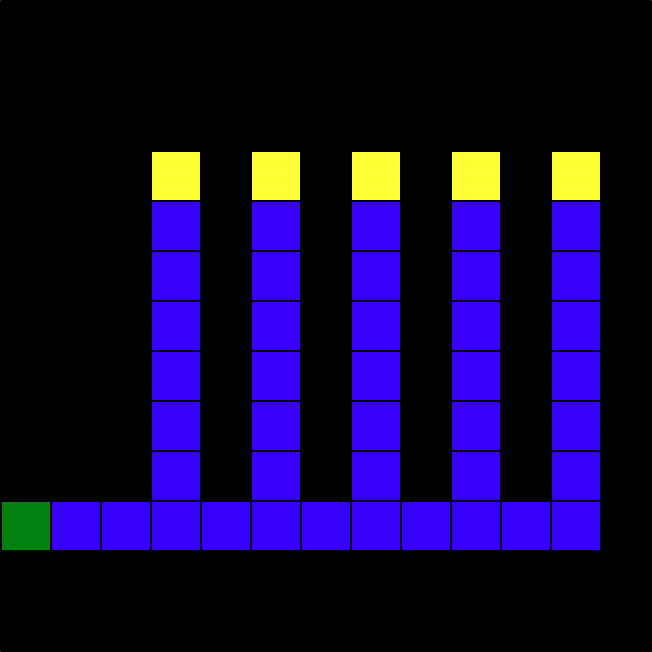
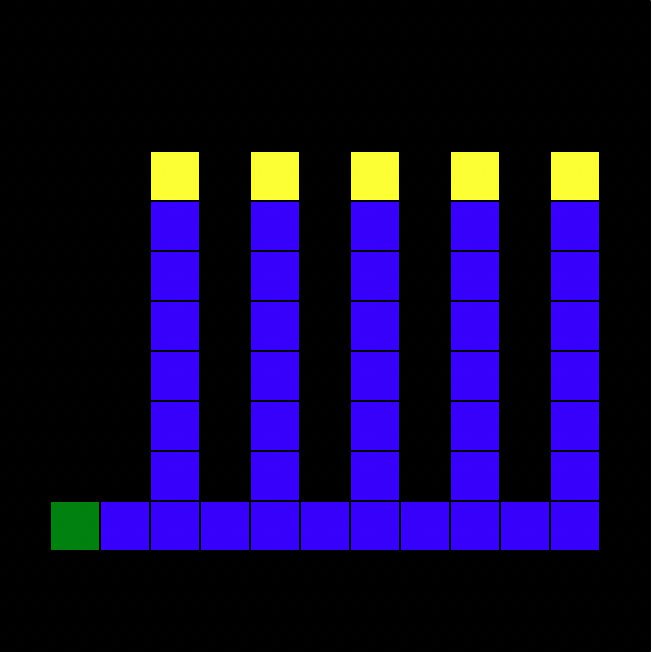
Simplified level 4 a bit

Changed region(s): [[0.0, 0.7669, 0.1534, 0.8589]]

diff --git a/src/turbozzle/creator/levels.py b/src/turbozzle/creator/levels.py
@@ -80,7 +80,7 @@ LEVEL_4 = [
     ["x", "x", "x", "b", "x", "b", "x", "b", "x", "b", "x", "b", "x"],
     ["x", "x", "x", "b", "x", "b", "x", "b", "x", "b", "x", "b", "x"],
     ["x", "x", "x", "b", "x", "b", "x", "b", "x", "b", "x", "b", "x"],
-    ["g", "b", "b", "b", "b", "b", "b", "b", "b", "b", "b", "b", "x"],
+    ["x", "g", "b", "b", "b", "b", "b", "b", "b", "b", "b", "b", "x"],
     ["x", "x", "x", "x", "x", "x", "x", "x", "x", "x", "x", "x", "x"],
     ["x", "x", "x", "x", "x", "x", "x", "x", "x", "x", "x", "x", "x"],
 ]

diff --git a/src/turbozzle/puzzles/puzzle_4.py b/src/turbozzle/puzzles/puzzle_4.py
@@ -4,7 +4,6 @@ from turbozzle.utils.movement_wrapper import forward, init_puzzle, left, wait_un
 
 def solve_puzzle_4() -> None:
 
-    forward()
     for i in range(5):
         for i in range(2):
             forward()
@@ -17,7 +16,7 @@ def solve_puzzle_4() -> None:
         left(90)
 
 
-init_puzzle("levels/puzzle_4.png", x=-300, y=-200, speed=0)
+init_puzzle("levels/puzzle_4.png", x=-250, y=-200, speed=0)
 solve_puzzle_4()
 
 wait_until_exit()
